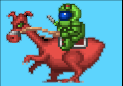
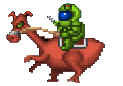
[assets] Remove a background.

diff --git a/src/Game.cpp b/src/Game.cpp
@@ -49,7 +49,7 @@ bool Game::init(int xpos, int ypos, int width, int height) {
             m_pRenderer = SDL_CreateRenderer(m_pWindow, -1, sdl_render_flags);
             if(m_pRenderer != nullptr) {
                 std::cout << "renderer creation success" << std::endl;
-                SDL_SetRenderDrawColor(m_pRenderer, 0, 0, 0, 255);
+                SDL_SetRenderDrawColor(m_pRenderer, 128, 128, 128, 255);
             } else {
                 std::cout << "renderer init fail" << std::endl;
                 return false;   /// \todo exception
